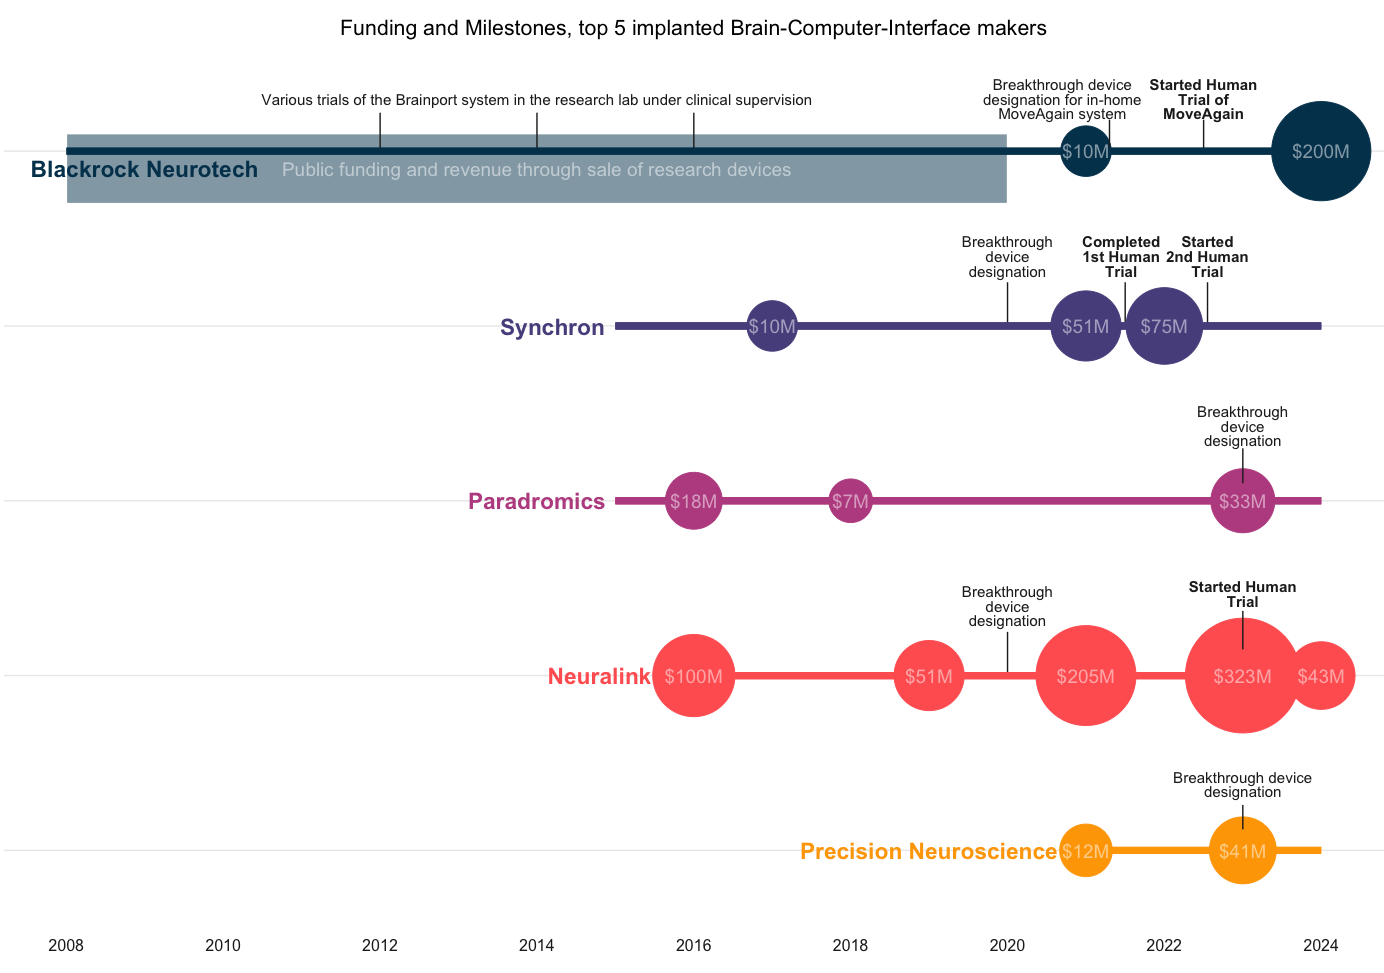
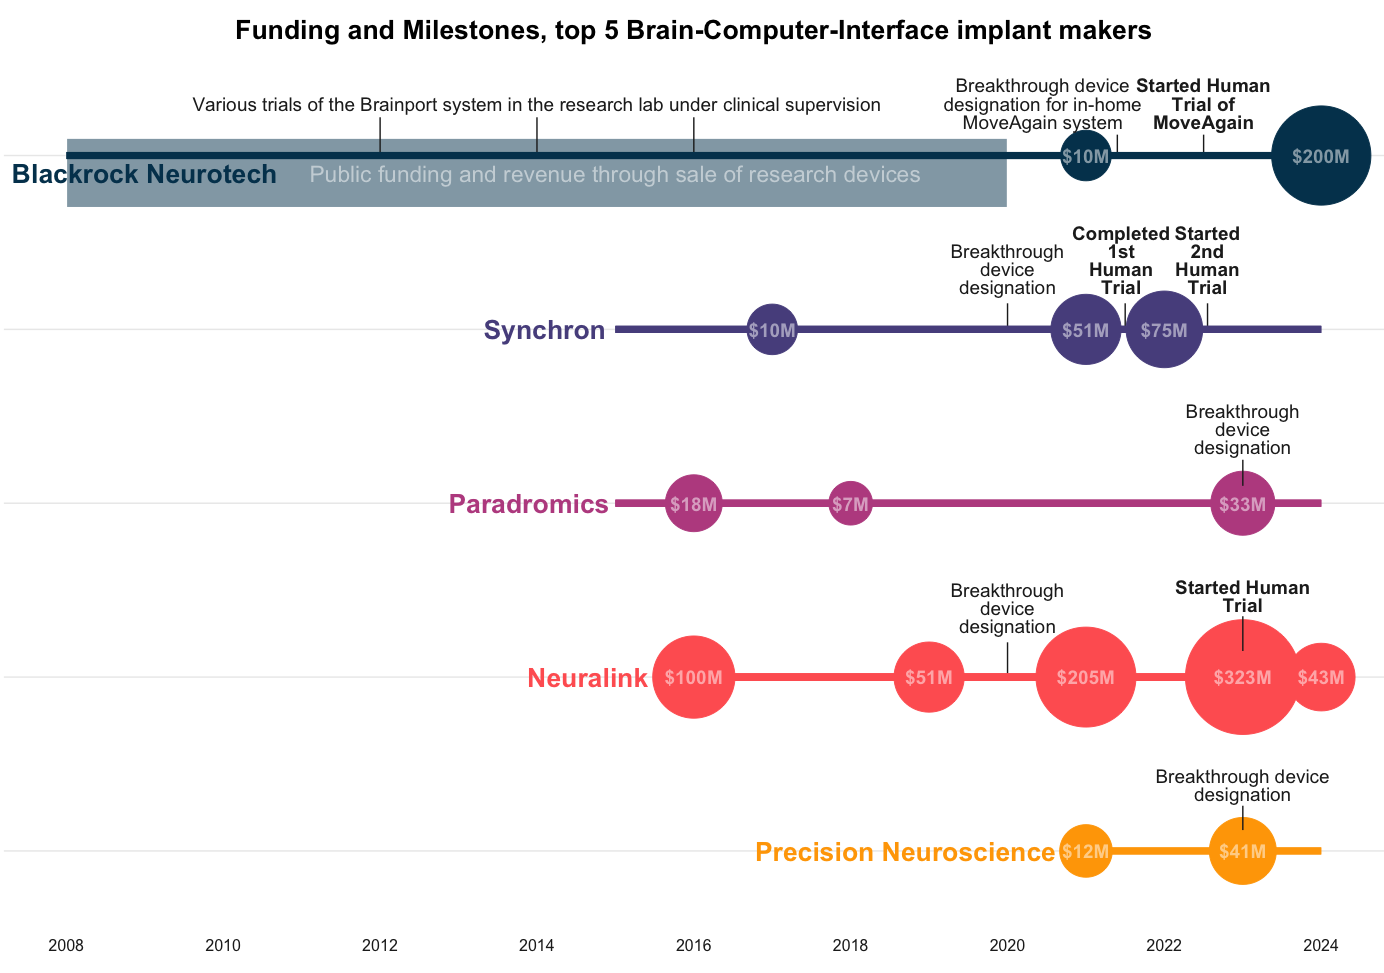
Mkae the plot pop and edit figure caption

diff --git a/posts/BCI-funding-clinical-trials.md b/posts/BCI-funding-clinical-trials.md
@@ -23,7 +23,7 @@ Most manufacturers follow the following sequence: they petition FDA for [breakth
 Finally, most clinical trials are registered at clinicaltrials.gov for transparency (see Synchron’s [COMMAND trial](https://clinicaltrials.gov/study/NCT05035823) for example) so that the public can track the goals of the trial, the milestones, and progress — it also obliges them to report outcomes. Neuralink notably hasn’t registered their clinical trial. 
 
 ![](../src/images/BCI-funding-milestones.png)
-<small class="caption">Neuralink has raised the most funding but isn’t the furthest ahead on human clinical trials</small>
+<small class="caption">Chart showing funding, FDA milestoens and human clinical trials for the top 5 implanted BCI makers in 2024. Neuralink has raised the most funding but isn’t the furthest ahead on human clinical trials.</small>
 
 
 ## Blackrock
